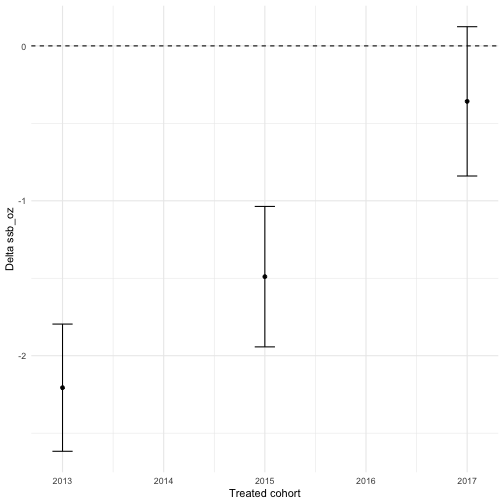
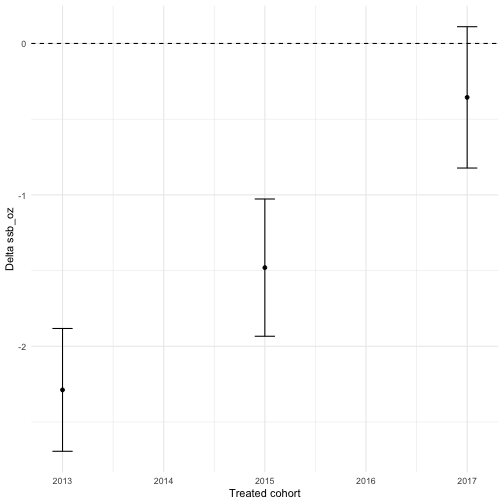
add TWFE comparison and split baseline from covariate fit
The headline flexdid fit is now ssb_oz ~ 1 (no covariates), making the
baseline as simple as possible and matching the canonical TWFE
specification it's compared against. A new "Comparison to TWFE" section
runs fixest::feols(ssb_oz ~ treated | county + year) to show TWFE's
attenuation under staggered treatment with dynamic effects (-1.18 vs
flexdid's -1.63), framed via Goodman-Bacon's forbidden-comparisons
result. The previous ~ age fit moves to a new "Including covariates"
section that demonstrates the formula-RHS feature in isolation.

diff --git a/examples/rflexdid_demo.md b/examples/rflexdid_demo.md
@@ -32,6 +32,7 @@ enacted larger taxes, and consumption keeps falling with longer exposure.
 library(rflexdid)
 library(ggplot2)
 library(here)
+library(fixest)
 source(here("examples", "simulate_data.R"))
 df <- simulate_flexdid_data()
 head(df)
@@ -59,16 +60,17 @@ table(df$cohort)
 
 ## Estimation
 
-`flexdid()` runs a single OLS regression of `ssb_oz` on a saturated set of
-cohort × group × time × treatment interactions, with `age` interacted in
-on the right-hand side. County and year fixed effects are absorbed
-automatically. `specification = "lagsandleads"` adds pre-treatment lead
-indicators so parallel pre-trends are visually testable.
-Standard errors cluster at the county level.
+`flexdid()` runs a single OLS regression of `ssb_oz` on a saturated set
+of cohort × group × time × treatment interactions. County and year
+fixed effects are absorbed automatically. `specification = "lagsandleads"`
+adds pre-treatment lead indicators so parallel pre-trends are visually
+testable. Standard errors cluster at the county level. The right-hand
+side `~ 1` here means no covariates; we add one in the
+[Including covariates](#including-covariates) section.
 
 
 ``` r
-fit <- flexdid(ssb_oz ~ age,
+fit <- flexdid(ssb_oz ~ 1,
                data = df,
                tx = "treated",
                group = "county",
@@ -87,7 +89,7 @@ fit
 ##   Treatment:     treated  | Group: county  | Time: year 
 ##   Observations:  20000 
 ##   VCE:           cluster (county; 40 clusters)
-##   R-squared:     0.1827   (adj. 0.1558)
+##   R-squared:     0.1470   (adj. 0.1332)
 ```
 
 ## Overall ATET
@@ -108,10 +110,85 @@ atet(fit, type = "overall")
 ## Aggregation weight: obslevel
 ## 
 ##         Estimate Std. Error t value Pr(>|t|) [CI lo] [CI hi]
+## Overall -1.6325   0.1882    -8.6762  0.0000  -2.0013 -1.2637
+## 
+## Note: Linearization (Stata's vce(unconditional)) is used for the standard errors.
+```
+
+## Comparison to TWFE
+
+For reference, the canonical two-way fixed-effects (TWFE) estimator
+regresses the outcome on a single dummy for treatment, with group and
+time fixed effects:
+
+
+``` r
+twfe <- feols(ssb_oz ~ treated | county + year,
+              data = df,
+              cluster = ~ county)
+
+twfe
+```
+
+```
+## OLS estimation, Dep. Var.: ssb_oz
+## Observations: 20,000
+## Fixed-effects: county: 40,  year: 10
+## Standard-errors: Clustered (county) 
+##         Estimate Std. Error  t value  Pr(>|t|)    
+## treated -1.18174    0.12211 -9.67768 6.418e-12 ***
+## ---
+## Signif. codes:  0 '***' 0.001 '**' 0.01 '*' 0.05 '.' 0.1 ' ' 1
+## RMSE: 3.16253     Adj. R2: 0.120942
+##                 Within R2: 0.01062
+```
+
+The TWFE coefficient on `treated` is noticeably attenuated relative to
+the flexdid overall ATET above. This is the canonical
+Goodman-Bacon (2021) result: under staggered treatment timing with
+dynamic effects, TWFE puts negative weight on "forbidden comparisons"
+in which already-treated units serve as controls for later-treated
+cohorts. When effects intensify with exposure, those negative-weighted
+2 × 2 contrasts pull the estimate toward zero. The `flexdid` design
+sidesteps the problem by estimating each cohort × group × time cell
+separately and then aggregating only legitimate comparisons.
+
+## Including covariates
+
+Putting a continuous covariate on the right-hand side of the formula
+interacts it with every cohort × group × time cell — it allows the
+treatment effect to vary with the covariate and absorbs residual
+variance for tighter standard errors. In this DGP age does not moderate
+treatment, so the overall ATET barely moves; the standard error tightens
+slightly:
+
+
+``` r
+fit_age <- flexdid(ssb_oz ~ age,
+                   data = df,
+                   tx = "treated",
+                   group = "county",
+                   time = "year",
+                   specification = "lagsandleads",
+                   vcov = "cluster",
+                   cluster = "county")
+
+atet(fit_age, type = "overall")
+```
+
+```
+## Overall ATET
+## Observations: 20000 | Subpopulation observations: 7500
+## Aggregation weight: obslevel
+## 
+##         Estimate Std. Error t value Pr(>|t|) [CI lo] [CI hi]
 ## Overall -1.5979   0.1863    -8.5779  0.0000  -1.9630 -1.2328
 ## 
 ## Note: Linearization (Stata's vce(unconditional)) is used for the standard errors.
 ```
+
+The remaining sections continue to use the baseline (`fit`, no
+covariates) for clarity.
 
 ## Event study (`byexposure`)
 
@@ -133,24 +210,24 @@ ax
 ## Aggregation weight: obslevel
 ## 
 ##    Estimate Std. Error t value  Pr(>|t|) [CI lo]  [CI hi] 
-## -7  0.3339   0.2560     1.3040   0.1923  -0.1680   0.8357 
-## -6  0.3460   0.3603     0.9603   0.3369  -0.3602   1.0522 
-## -5 -0.0314   0.1660    -0.1892   0.8500  -0.3567   0.2939 
-## -4  0.2874   0.2220     1.2944   0.1955  -0.1478   0.7226 
-## -3  0.0592   0.1520     0.3896   0.6968  -0.2387   0.3571 
-## -2  0.2756   0.1805     1.5265   0.1269  -0.0783   0.6294 
+## -7  0.3039   0.2493     1.2192   0.2228  -0.1847   0.7926 
+## -6  0.3371   0.3767     0.8950   0.3708  -0.4012   1.0754 
+## -5 -0.0052   0.1619    -0.0322   0.9743  -0.3227   0.3122 
+## -4  0.2557   0.2208     1.1580   0.2469  -0.1771   0.6885 
+## -3  0.0302   0.1457     0.2075   0.8356  -0.2554   0.3158 
+## -2  0.2044   0.1781     1.1478   0.2511  -0.1447   0.5536 
 ## -1  0.0000   0.0000          NA       NA       NA       NA
-## 0  -0.9029   0.2057    -4.3898   0.0000  -1.3061  -0.4998 
-## 1  -1.1250   0.1696    -6.6334   0.0000  -1.4574  -0.7926 
-## 2  -1.2817   0.1771    -7.2355   0.0000  -1.6289  -0.9345 
-## 3  -1.8229   0.2190    -8.3239   0.0000  -2.2521  -1.3936 
-## 4  -2.2944   0.2416    -9.4984   0.0000  -2.7679  -1.8209 
-## 5  -2.8562   0.3142    -9.0912   0.0000  -3.4720  -2.2404 
-## 6  -2.9485   0.2777    -10.6166  0.0000  -3.4928  -2.4041 
+## 0  -0.9187   0.1965    -4.6743   0.0000  -1.3039  -0.5335 
+## 1  -1.1513   0.1720    -6.6924   0.0000  -1.4885  -0.8141 
+## 2  -1.3100   0.1785    -7.3401   0.0000  -1.6598  -0.9602 
+## 3  -1.8970   0.2074    -9.1472   0.0000  -2.3035  -1.4905 
+## 4  -2.3088   0.2429    -9.5040   0.0000  -2.7849  -1.8326 
+## 5  -2.9005   0.3173    -9.1412   0.0000  -3.5225  -2.2786 
+## 6  -3.0355   0.2726    -11.1340  0.0000  -3.5699  -2.5011 
 ## 
 ## Test of zero ATETs
 ##   H0: All effects are equal to zero
-##   F(13, 19362) = 26.690   Prob > F = 0.0000
+##   F(13, 19681) = 29.902   Prob > F = 0.0000
 ## 
 ## Note: Linearization (Stata's vce(unconditional)) is used for the standard errors.
 ```
@@ -183,9 +260,9 @@ acoh
 ## Aggregation weight: obslevel
 ## 
 ##      Estimate Std. Error t value  Pr(>|t|) [CI lo] [CI hi]
-## 2013 -2.2065   0.2095    -10.5326  0.0000  -2.6171 -1.7959
-## 2015 -1.4897   0.2313    -6.4405   0.0000  -1.9431 -1.0363
-## 2017 -0.3581   0.2459    -1.4564   0.1453  -0.8400  0.1238
+## 2013 -2.2881   0.2069    -11.0580  0.0000  -2.6936 -1.8825
+## 2015 -1.4806   0.2313    -6.4019   0.0000  -1.9339 -1.0272
+## 2017 -0.3561   0.2381    -1.4953   0.1348  -0.8228  0.1107
 ## 
 ## Note: Linearization (Stata's vce(unconditional)) is used for the standard errors.
 ```
@@ -216,16 +293,16 @@ acal
 ## Aggregation weight: obslevel
 ## 
 ##      Estimate Std. Error t value Pr(>|t|) [CI lo] [CI hi]
-## 2010  0.2167   0.1707     1.2696  0.2042  -0.1179  0.5513
-## 2011  0.4084   0.2318     1.7621  0.0781  -0.0459  0.8626
-## 2012 -0.2471   0.1896    -1.3029  0.1926  -0.6187  0.1246
-## 2013 -0.4458   0.2794    -1.5954  0.1106  -0.9934  0.1019
-## 2014 -0.6607   0.3007    -2.1974  0.0280  -1.2500 -0.0714
-## 2015 -0.7429   0.2290    -3.2449  0.0012  -1.1917 -0.2942
-## 2016 -1.7976   0.1991    -9.0294  0.0000  -2.1879 -1.4074
-## 2017 -1.5574   0.2725    -5.7156  0.0000  -2.0914 -1.0233
-## 2018 -1.5559   0.2803    -5.5509  0.0000  -2.1053 -1.0065
-## 2019 -1.7769   0.2737    -6.4915  0.0000  -2.3134 -1.2404
+## 2010  0.1864   0.1611     1.1569  0.2473  -0.1294  0.5023
+## 2011  0.3689   0.2426     1.5209  0.1283  -0.1065  0.8443
+## 2012 -0.2093   0.1795    -1.1657  0.2437  -0.5611  0.1426
+## 2013 -0.5006   0.2655    -1.8857  0.0594  -1.0209  0.0198
+## 2014 -0.7330   0.3080    -2.3801  0.0173  -1.3367 -0.1293
+## 2015 -0.8053   0.2274    -3.5408  0.0004  -1.2511 -0.3595
+## 2016 -1.8413   0.1972    -9.3377  0.0000  -2.2278 -1.4548
+## 2017 -1.5573   0.2654    -5.8677  0.0000  -2.0775 -1.0371
+## 2018 -1.5855   0.2830    -5.6031  0.0000  -2.1401 -1.0308
+## 2019 -1.7981   0.2770    -6.4912  0.0000  -2.3411 -1.2552
 ## 
 ## Note: Linearization (Stata's vce(unconditional)) is used for the standard errors.
 ```
@@ -261,32 +338,32 @@ head(as.data.frame(aget), 12)
 ```
 
 ```
-##     label    Estimate Std. Error     t value     Pr(>|t|)     [CI lo]
-## 1  g3|et0 -1.19173887  0.1960159  -6.0798062 1.225823e-09 -1.57594706
-## 2  g3|et1 -1.77779029  0.1772682 -10.0288150 1.300401e-23 -2.12525136
-## 3  g3|et2 -1.48958725  0.1384743 -10.7571350 6.534993e-27 -1.76100895
-## 4  g3|et3 -2.65807660  0.1634677 -16.2605653 4.630006e-59 -2.97848736
-## 5  g4|et0 -0.08695303  0.1753483  -0.4958876 6.199794e-01 -0.43065082
-## 6  g4|et1 -0.46742651  0.1400854  -3.3367258 8.493108e-04 -0.74200599
-## 7  g4|et2  0.28527450  0.2148237   1.3279472 1.842112e-01 -0.13579848
-## 8  g5|et0  1.21994585  0.1801225   6.7728671 1.298788e-11  0.86689014
-## 9  g5|et1  0.90231119  0.1480671   6.0939336 1.122524e-09  0.61208683
-## 10 g5|et2  0.53800196  0.2249698   2.3914406 1.679188e-02  0.09704166
-## 11 g7|et0 -1.03105848  0.1843624  -5.5925633 2.267631e-08 -1.39242477
-## 12 g7|et1 -1.39257831  0.1941193  -7.1738286 7.556084e-13 -1.77306885
+##     label    Estimate Std. Error     t value     Pr(>|t|)       [CI lo]
+## 1  g3|et0 -1.20847035  0.1813006  -6.6655605 2.706438e-11 -1.5638349192
+## 2  g3|et1 -1.89108086  0.1778084 -10.6354960 2.402338e-26 -2.2396004111
+## 3  g3|et2 -1.61524325  0.1130508 -14.2877681 4.435297e-46 -1.8368323285
+## 4  g3|et3 -2.70388137  0.1467272 -18.4279477 3.365081e-75 -2.9914791063
+## 5  g4|et0 -0.47651770  0.1445281  -3.2970598 9.787574e-04 -0.7598049450
+## 6  g4|et1 -0.42904170  0.1458502  -2.9416601 3.268384e-03 -0.7149204113
+## 7  g4|et2  0.07151653  0.2092706   0.3417418 7.325488e-01 -0.3386716049
+## 8  g5|et0  1.04350167  0.1445281   7.2200621 5.385622e-13  0.7602144268
+## 9  g5|et1  0.70776934  0.1458502   4.8527144 1.227154e-06  0.4218906292
+## 10 g5|et2  0.41048103  0.2092706   1.9614841 4.983665e-02  0.0002928971
+## 11 g7|et0 -0.88458046  0.1798005  -4.9197895 8.733675e-07 -1.2370045774
+## 12 g7|et1 -1.34265963  0.1992974  -6.7369666 1.661979e-11 -1.7332992945
 ##       [CI hi]
-## 1  -0.8075307
-## 2  -1.4303292
-## 3  -1.2181655
-## 4  -2.3376658
-## 5   0.2567448
-## 6  -0.1928470
-## 7   0.7063475
-## 8   1.5730016
-## 9   1.1925355
-## 10  0.9789623
-## 11 -0.6696922
-## 12 -1.0120878
+## 1  -0.8531058
+## 2  -1.5425613
+## 3  -1.3936542
+## 4  -2.4162836
+## 5  -0.1932305
+## 6  -0.1431630
+## 7   0.4817047
+## 8   1.3267889
+## 9   0.9936480
+## 10  0.8206692
+## 11 -0.5321563
+## 12 -0.9520200
 ```
 
 ## Subgroup ATET via `for_expr`
@@ -307,20 +384,20 @@ atet(fit, type = "byexposure", for_expr = quote(female == 1))
 ## Aggregation weight: obslevel
 ## 
 ##    Estimate Std. Error t value  Pr(>|t|) [CI lo]  [CI hi] 
-## -7  0.2739   0.2528     1.0833   0.2787  -0.2217   0.7694 
-## -6  0.3288   0.3554     0.9251   0.3549  -0.3678   1.0253 
-## -5 -0.0683   0.1637    -0.4174   0.6764  -0.3892   0.2525 
-## -4  0.2435   0.2208     1.1024   0.2703  -0.1894   0.6763 
-## -3  0.0478   0.1530     0.3123   0.7548  -0.2520   0.3476 
-## -2  0.2281   0.1886     1.2093   0.2265  -0.1416   0.5977 
+## -7  0.2790   0.2468     1.1306   0.2582  -0.2047   0.7628 
+## -6  0.3474   0.3726     0.9326   0.3510  -0.3828   1.0777 
+## -5 -0.0180   0.1610    -0.1116   0.9112  -0.3336   0.2977 
+## -4  0.2353   0.2199     1.0699   0.2847  -0.1958   0.6664 
+## -3  0.0205   0.1458     0.1407   0.8881  -0.2653   0.3063 
+## -2  0.1706   0.1822     0.9365   0.3490  -0.1865   0.5278 
 ## -1  0.0000   0.0000          NA       NA       NA       NA
-## 0  -0.9111   0.2068    -4.4060   0.0000  -1.3164  -0.5058 
-## 1  -1.1871   0.1735    -6.8433   0.0000  -1.5271  -0.8471 
-## 2  -1.2850   0.1822    -7.0508   0.0000  -1.6422  -0.9278 
-## 3  -1.8696   0.2116    -8.8354   0.0000  -2.2844  -1.4548 
-## 4  -2.3580   0.2481    -9.5044   0.0000  -2.8443  -1.8717 
-## 5  -2.8804   0.3211    -8.9698   0.0000  -3.5098  -2.2510 
-## 6  -3.0591   0.2929    -10.4444  0.0000  -3.6332  -2.4850 
+## 0  -0.9115   0.1978    -4.6072   0.0000  -1.2993  -0.5237 
+## 1  -1.1795   0.1713    -6.8846   0.0000  -1.5153  -0.8437 
+## 2  -1.3023   0.1857    -7.0120   0.0000  -1.6663  -0.9382 
+## 3  -1.9094   0.2060    -9.2696   0.0000  -2.3131  -1.5056 
+## 4  -2.3654   0.2477    -9.5490   0.0000  -2.8509  -1.8799 
+## 5  -2.9158   0.3151    -9.2527   0.0000  -3.5335  -2.2981 
+## 6  -3.0864   0.2591    -11.9132  0.0000  -3.5942  -2.5786 
 ## 
 ## Note: Linearization (Stata's vce(unconditional)) is used for the standard errors.
 ```
@@ -334,7 +411,7 @@ constant within county, so it slots in cleanly here.
 
 
 ``` r
-fit2 <- flexdid(ssb_oz ~ age,
+fit2 <- flexdid(ssb_oz ~ 1,
                 data = df,
                 tx = "treated",
                 group = "county",
@@ -343,7 +420,7 @@ fit2 <- flexdid(ssb_oz ~ age,
                 xnotinteracted = ~ region,
                 vcov = "cluster",
                 cluster = "county")
-                
+
 atet(fit2, type = "overall")
 ```
 
@@ -353,7 +430,7 @@ atet(fit2, type = "overall")
 ## Aggregation weight: obslevel
 ## 
 ##         Estimate Std. Error t value Pr(>|t|) [CI lo] [CI hi]
-## Overall -1.5979   0.1863    -8.5779  0.0000  -1.9630 -1.2328
+## Overall -1.6325   0.1882    -8.6762  0.0000  -2.0013 -1.2637
 ## 
 ## Note: Linearization (Stata's vce(unconditional)) is used for the standard errors.
 ```
@@ -377,7 +454,7 @@ atet(fit, type = "overall", aggregationweight = "grouplevel")
 ## Aggregation weight: grouplevel
 ## 
 ##         Estimate Std. Error t value Pr(>|t|) [CI lo] [CI hi]
-## Overall -1.5979   0.1863    -8.5779  0.0000  -1.9630 -1.2328
+## Overall -1.6325   0.1882    -8.6762  0.0000  -2.0013 -1.2637
 ## 
 ## Note: Linearization (Stata's vce(unconditional)) is used for the standard errors.
 ```
@@ -399,24 +476,24 @@ atet(fit, type = "byexposure", test = "equal")
 ## Aggregation weight: obslevel
 ## 
 ##    Estimate Std. Error t value  Pr(>|t|) [CI lo]  [CI hi] 
-## -7  0.3339   0.2560     1.3040   0.1923  -0.1680   0.8357 
-## -6  0.3460   0.3603     0.9603   0.3369  -0.3602   1.0522 
-## -5 -0.0314   0.1660    -0.1892   0.8500  -0.3567   0.2939 
-## -4  0.2874   0.2220     1.2944   0.1955  -0.1478   0.7226 
-## -3  0.0592   0.1520     0.3896   0.6968  -0.2387   0.3571 
-## -2  0.2756   0.1805     1.5265   0.1269  -0.0783   0.6294 
+## -7  0.3039   0.2493     1.2192   0.2228  -0.1847   0.7926 
+## -6  0.3371   0.3767     0.8950   0.3708  -0.4012   1.0754 
+## -5 -0.0052   0.1619    -0.0322   0.9743  -0.3227   0.3122 
+## -4  0.2557   0.2208     1.1580   0.2469  -0.1771   0.6885 
+## -3  0.0302   0.1457     0.2075   0.8356  -0.2554   0.3158 
+## -2  0.2044   0.1781     1.1478   0.2511  -0.1447   0.5536 
 ## -1  0.0000   0.0000          NA       NA       NA       NA
-## 0  -0.9029   0.2057    -4.3898   0.0000  -1.3061  -0.4998 
-## 1  -1.1250   0.1696    -6.6334   0.0000  -1.4574  -0.7926 
-## 2  -1.2817   0.1771    -7.2355   0.0000  -1.6289  -0.9345 
-## 3  -1.8229   0.2190    -8.3239   0.0000  -2.2521  -1.3936 
-## 4  -2.2944   0.2416    -9.4984   0.0000  -2.7679  -1.8209 
-## 5  -2.8562   0.3142    -9.0912   0.0000  -3.4720  -2.2404 
-## 6  -2.9485   0.2777    -10.6166  0.0000  -3.4928  -2.4041 
+## 0  -0.9187   0.1965    -4.6743   0.0000  -1.3039  -0.5335 
+## 1  -1.1513   0.1720    -6.6924   0.0000  -1.4885  -0.8141 
+## 2  -1.3100   0.1785    -7.3401   0.0000  -1.6598  -0.9602 
+## 3  -1.8970   0.2074    -9.1472   0.0000  -2.3035  -1.4905 
+## 4  -2.3088   0.2429    -9.5040   0.0000  -2.7849  -1.8326 
+## 5  -2.9005   0.3173    -9.1412   0.0000  -3.5225  -2.2786 
+## 6  -3.0355   0.2726    -11.1340  0.0000  -3.5699  -2.5011 
 ## 
 ## Test of equal ATETs
 ##   H0: Effects are equal to each other
-##   F(12, 19362) = 25.138   Prob > F = 0.0000
+##   F(12, 19681) = 29.224   Prob > F = 0.0000
 ## 
 ## Note: Linearization (Stata's vce(unconditional)) is used for the standard errors.
 ```
